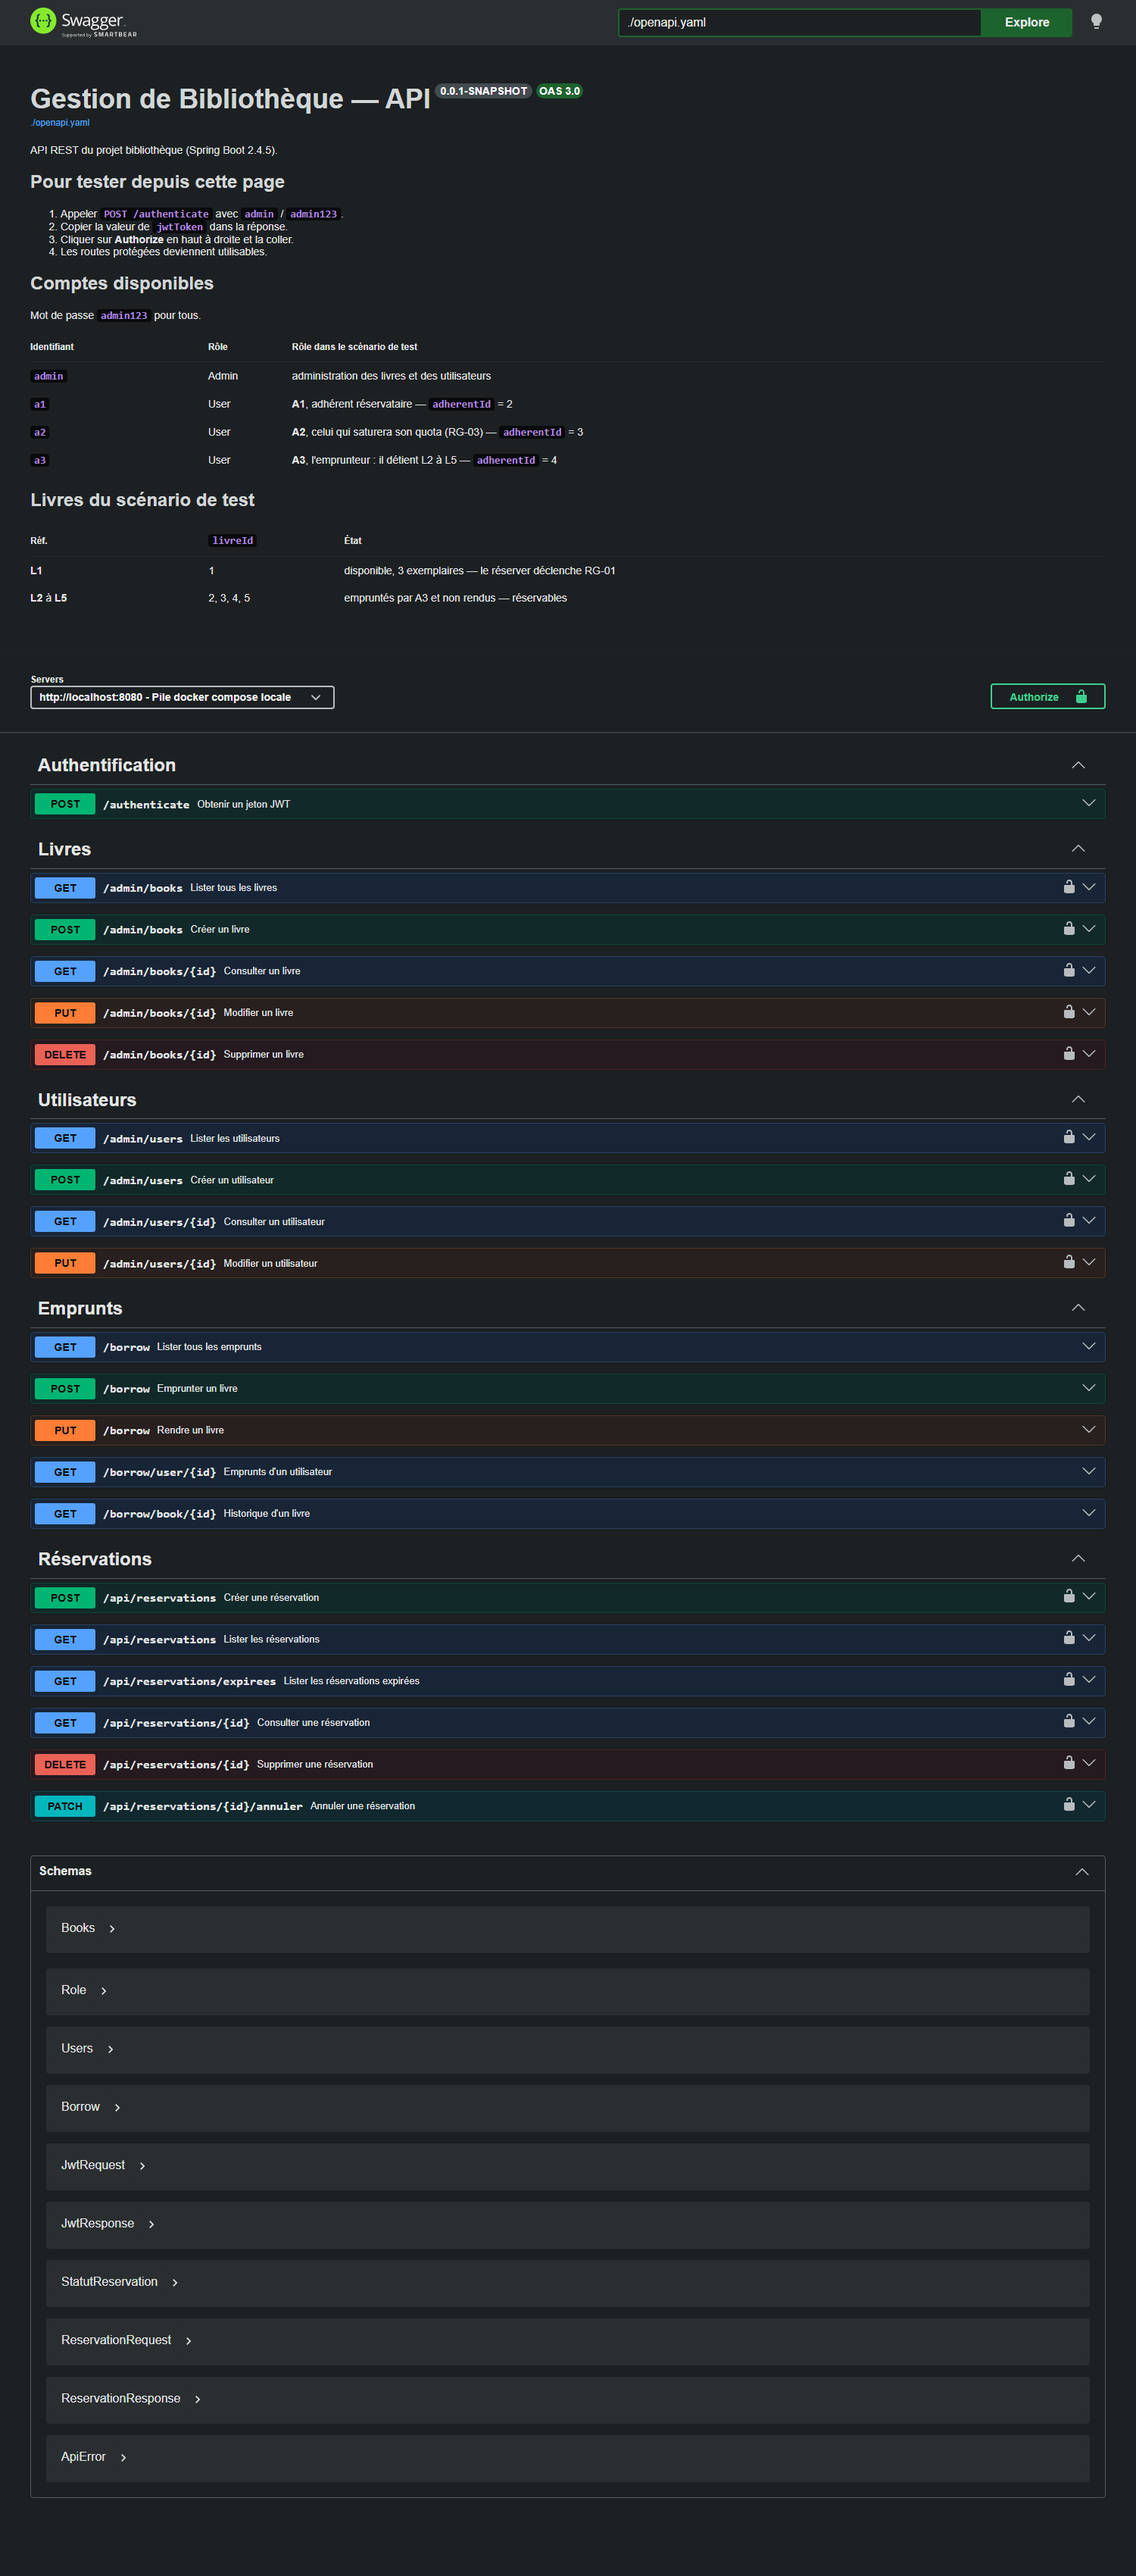
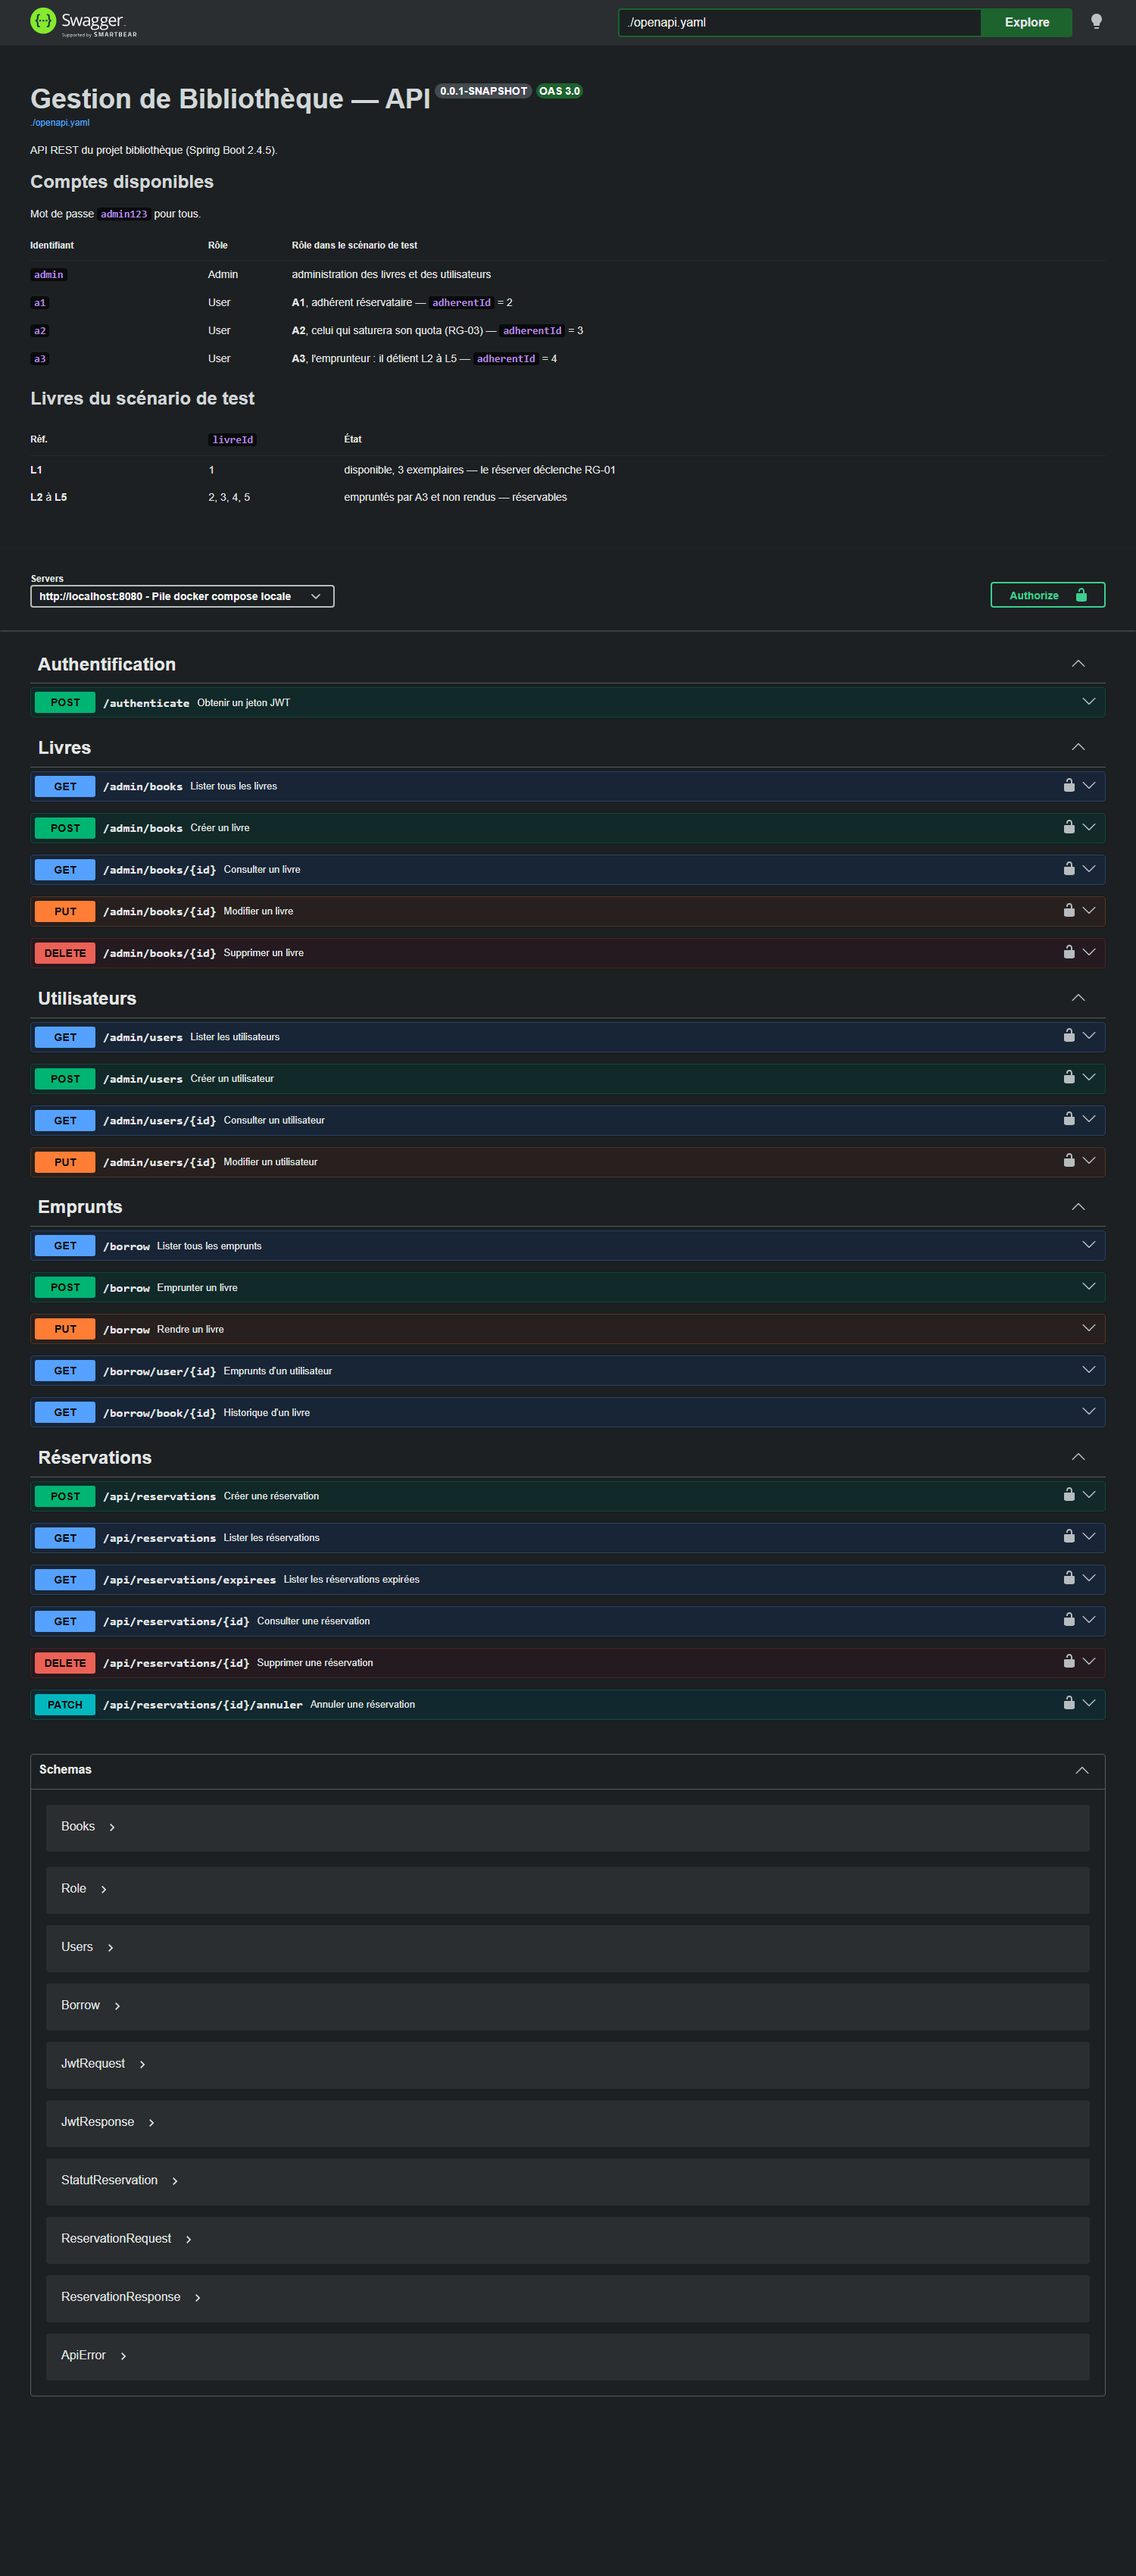
fix: demarre les identifiants de reservation a 100
Reservation et Borrow declarent GenerationType.IDENTITY : leur cle vient
de l AUTO_INCREMENT de MySQL, un compteur distinct de hibernate_sequence
que le jeu de donnees poussait deja a 100, et que vider la table ne
remet pas a zero. Les reservations repartaient donc de 8.

Le script force maintenant les deux compteurs a 100. Un identifiant de
reservation ne peut plus etre confondu avec un livreId (1 a 5) ou un
adherentId (1 a 4) pendant les tests -- la confusion etait reelle, une
reservation numero 2 portant sur le livre 2 pour l adherent 2.

Verifie par appel reel : la premiere reservation creee porte le numero
100, et les quatre emprunts du jeu de donnees vont de 100 a 103.

Les exemples de la specification et les captures suivent.

diff --git a/SEANCE-2-RESERVATION.md b/SEANCE-2-RESERVATION.md
@@ -189,6 +189,13 @@ Rejouable autant de fois que voulu : le script vide les tables avant d'écrire.
 Mot de passe `admin123` pour tous. Le compte `admin` est conservé : sans lui, plus
 de `POST /authenticate`, donc plus de jeton, donc aucune route utilisable.
 
+**Les réservations créées sont numérotées à partir de 100.** `Reservation`
+déclare `GenerationType.IDENTITY` : sa clé vient de l'`AUTO_INCREMENT` de MySQL,
+un compteur distinct de la `hibernate_sequence` qui numérote les livres et les
+utilisateurs, et que vider la table ne remet pas à zéro. Le script le force donc
+à 100 — ainsi un identifiant de réservation ne peut jamais être confondu avec un
+`livreId` (1 à 5) ou un `adherentId` (1 à 4) pendant les tests.
+
 Les libellés portent leur référence — `L2 — L'Étranger`, `A2 Quota à saturer` —
 ce qui rend les messages d'erreur lisibles sans table de correspondance :
 
